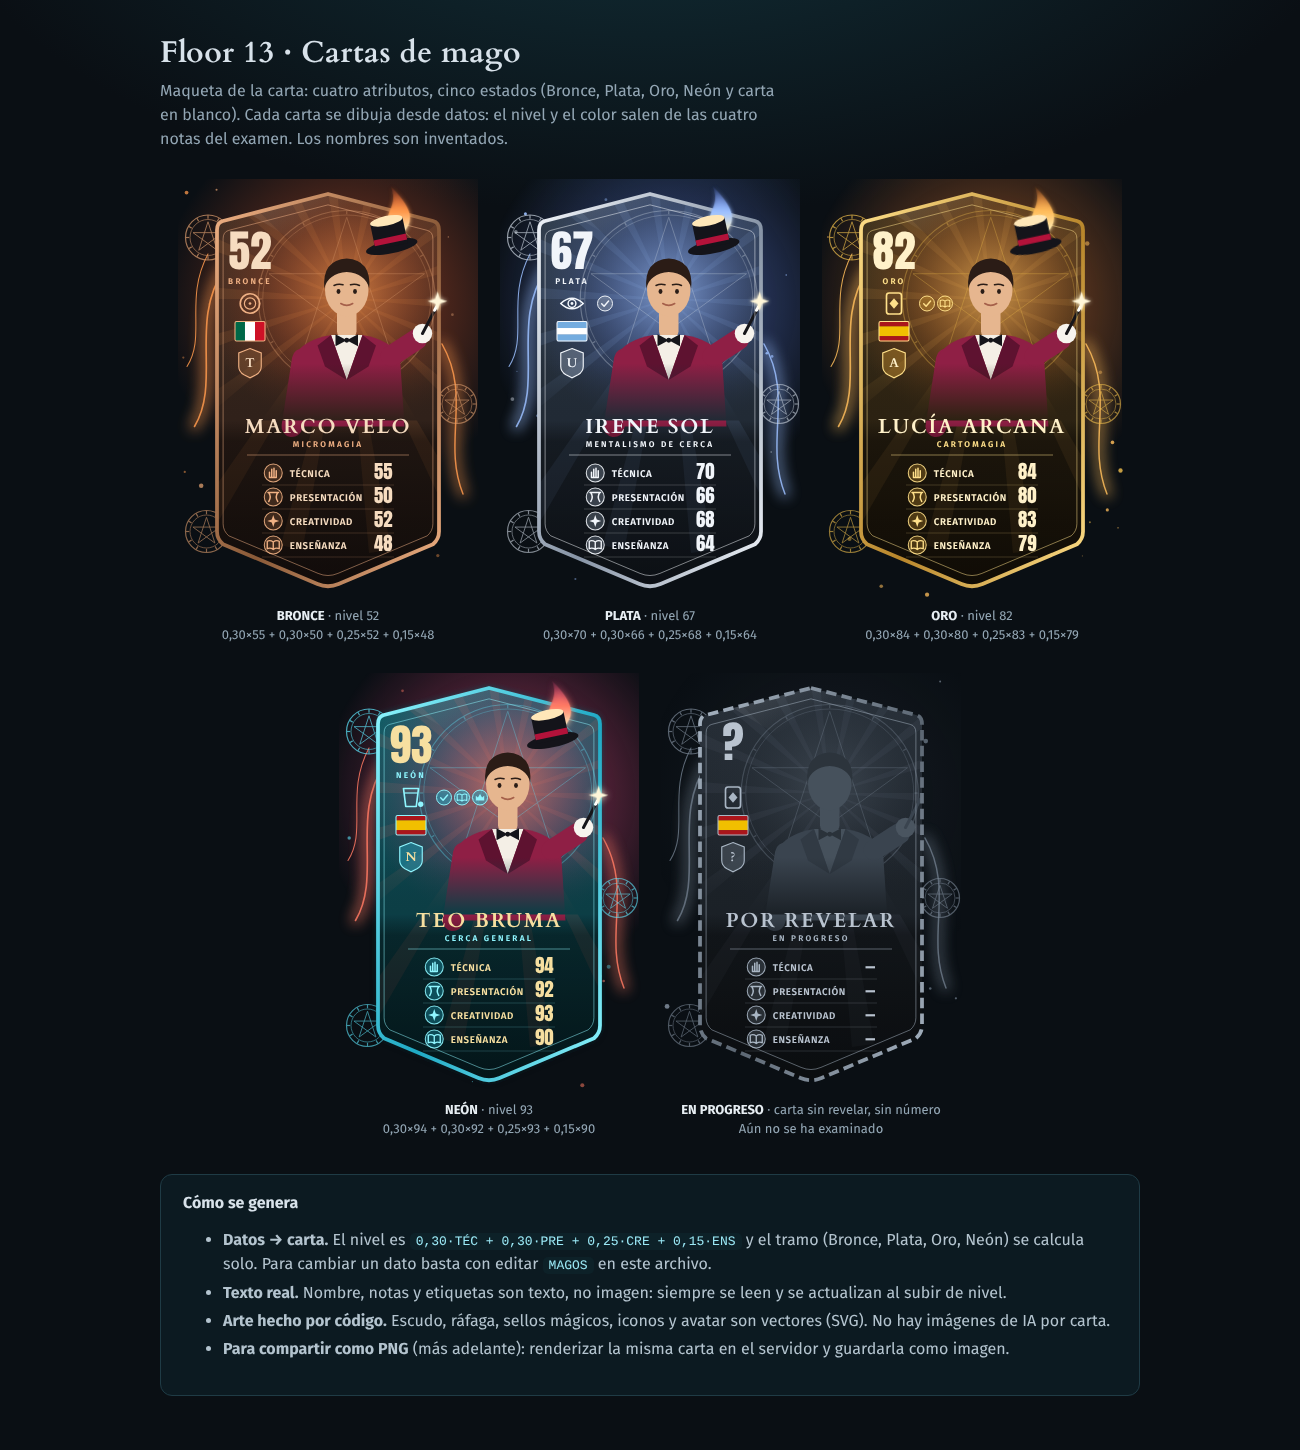
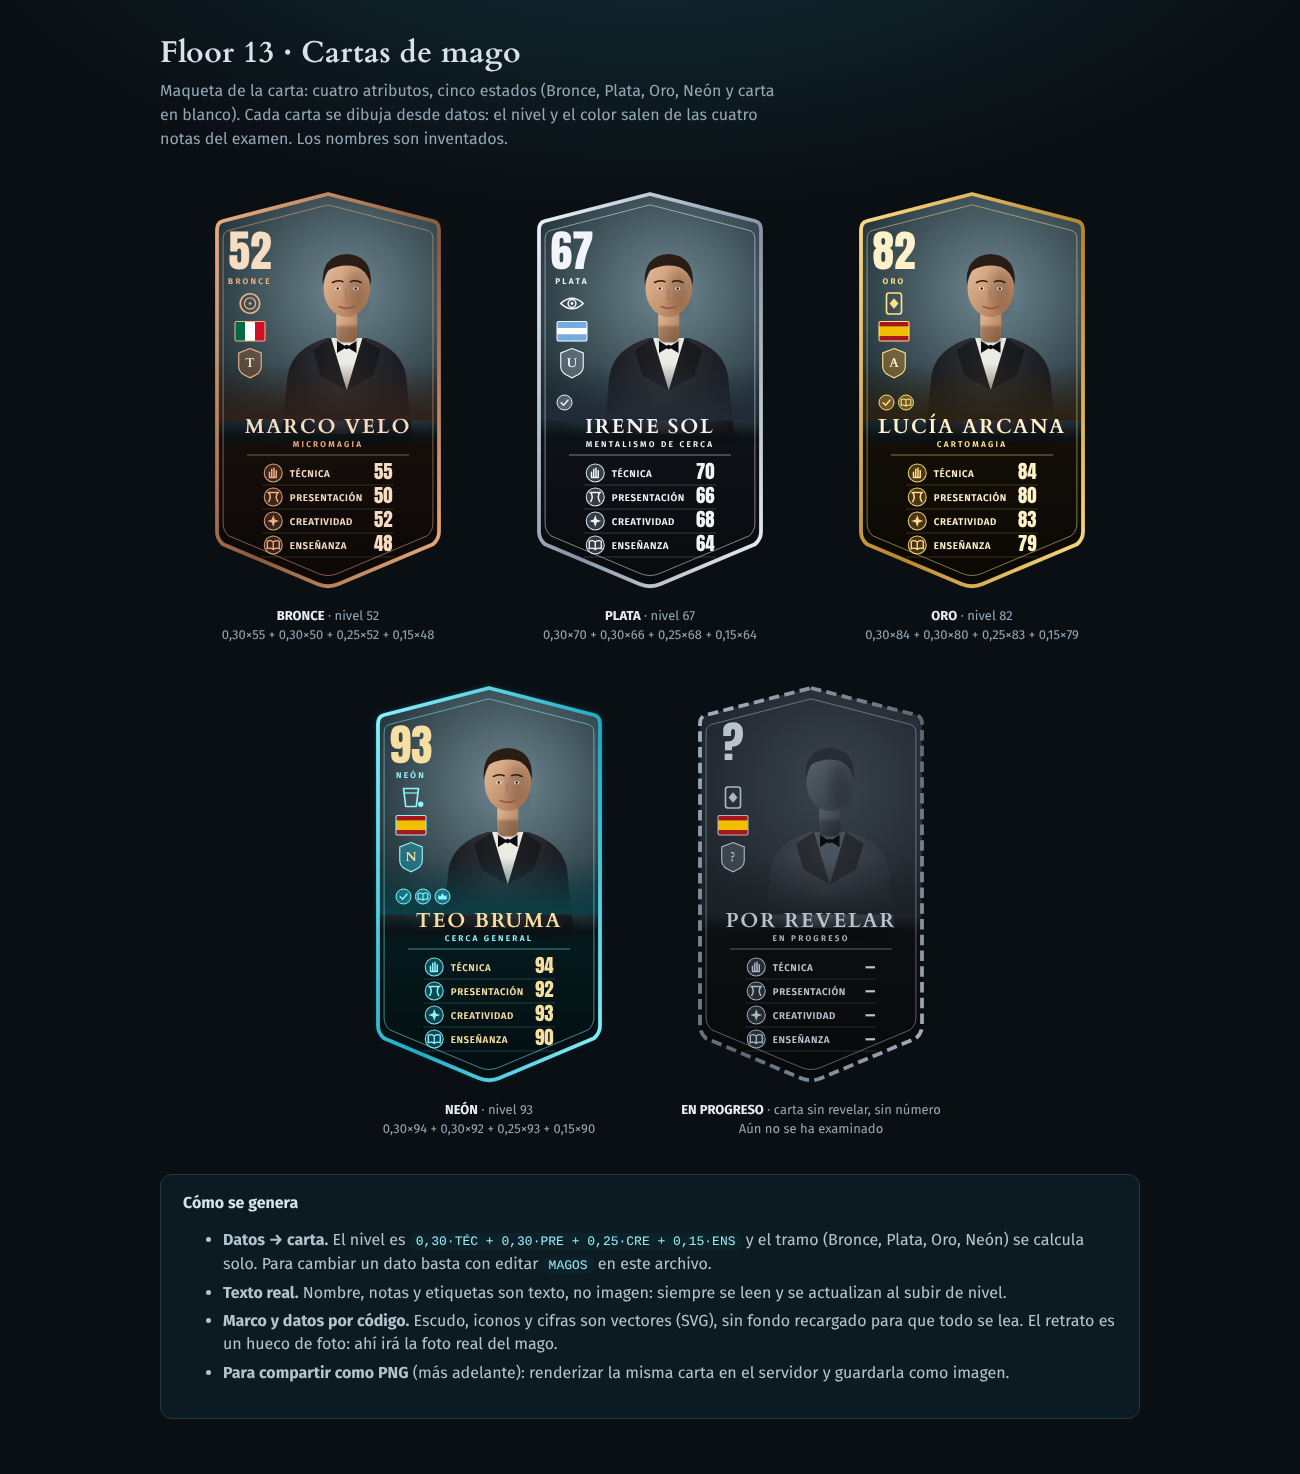
Cartas: sin fondo recargado y retrato con hueco de foto realista
Claude-Session: https://claude.ai/code/session_01KdBqoG4UYATbKNNbMoD1Gs

diff --git a/docs/diseno/carta/index.html b/docs/diseno/carta/index.html
@@ -39,7 +39,7 @@
   <ul>
     <li><b>Datos → carta.</b> El nivel es <code>0,30·TÉC + 0,30·PRE + 0,25·CRE + 0,15·ENS</code> y el tramo (Bronce, Plata, Oro, Neón) se calcula solo. Para cambiar un dato basta con editar <code>MAGOS</code> en este archivo.</li>
     <li><b>Texto real.</b> Nombre, notas y etiquetas son texto, no imagen: siempre se leen y se actualizan al subir de nivel.</li>
-    <li><b>Arte hecho por código.</b> Escudo, ráfaga, sellos mágicos, iconos y avatar son vectores (SVG). No hay imágenes de IA por carta.</li>
+    <li><b>Marco y datos por código.</b> Escudo, iconos y cifras son vectores (SVG), sin fondo recargado para que todo se lea. El retrato es un hueco de foto: ahí irá la foto real del mago.</li>
     <li><b>Para compartir como PNG</b> (más adelante): renderizar la misma carta en el servidor y guardarla como imagen.</li>
   </ul>
 </section>
@@ -128,6 +128,39 @@ function avatar(blank) {
     ${blank ? '' : '<line x1="342" y1="175" x2="346" y2="168" stroke="#fff" stroke-width="4" stroke-linecap="round"/>'}`;
 }
 
+
+/* ---------- Hueco de foto: retrato con luz de estudio (aquí irá la foto real del mago) ---------- */
+function foto(blank, id) {
+  const c = blank
+    ? { bg1: '#3a434d', bg2: '#1a2026', skin1: '#59636e', skin2: '#2e353d', suit: '#2c333b', shirt: '#4a545f', hair: '#262d34' }
+    : { bg1: '#6f8791', bg2: '#17262c', skin1: '#e9bf9c', skin2: '#a9734f', suit: '#17191f', shirt: '#eceae4', hair: '#2a1d16' };
+  return `
+  <defs>
+    <radialGradient id="${id('pbg')}" cx="225" cy="150" r="230" gradientUnits="userSpaceOnUse"><stop offset="0" stop-color="${c.bg1}"/><stop offset="1" stop-color="${c.bg2}"/></radialGradient>
+    <linearGradient id="${id('skin')}" x1="0" y1="0" x2="1" y2="1"><stop offset="0" stop-color="${c.skin1}"/><stop offset="1" stop-color="${c.skin2}"/></linearGradient>
+    <linearGradient id="${id('suit')}" x1="0" y1="0" x2="1" y2="0"><stop offset="0" stop-color="${c.suit}"/><stop offset=".45" stop-color="${mix(c.suit, '#ffffff', .12)}"/><stop offset="1" stop-color="${c.suit}"/></linearGradient>
+    <filter id="${id('soft')}"><feGaussianBlur stdDeviation="1.6"/></filter>
+    <filter id="${id('soft2')}"><feGaussianBlur stdDeviation="7"/></filter>
+  </defs>
+  <rect x="40" y="10" width="320" height="340" fill="url(#${id('pbg')})"/>
+  <ellipse cx="225" cy="340" rx="95" ry="14" fill="#000" opacity=".35" filter="url(#${id('soft2')})"/>
+  <path d="M138,340 L146,262 Q152,226 198,212 L252,212 Q298,226 304,262 L312,340 Z" fill="url(#${id('suit')})"/>
+  <path d="M204,212 L225,282 L246,212 Z" fill="${c.shirt}"/>
+  <path d="M204,212 L225,282 L190,262 L180,228 Z M246,212 L225,282 L260,262 L270,228 Z" fill="#000" opacity=".35"/>
+  <path d="M225,224 L212,216 L212,232 Z M225,224 L238,216 L238,232 Z" fill="#0c0c10"/><circle cx="225" cy="224" r="3" fill="#0c0c10"/>
+  <rect x="211" y="172" width="28" height="46" rx="10" fill="url(#${id('skin')})"/>
+  <rect x="211" y="196" width="28" height="22" fill="#000" opacity=".22" filter="url(#${id('soft')})"/>
+  <ellipse cx="225" cy="146" rx="31" ry="38" fill="url(#${id('skin')})"/>
+  <path d="M193,142 Q190,102 225,100 Q260,102 257,142 Q253,122 238,117 Q218,112 200,122 Q195,130 193,142Z" fill="${c.hair}"/>
+  <ellipse cx="238" cy="150" rx="14" ry="30" fill="#000" opacity=".18" filter="url(#${id('soft2')})"/>
+  ${blank ? '' : `
+  <ellipse cx="213" cy="146" rx="3.4" ry="2.2" fill="#fff" opacity=".9"/><circle cx="213" cy="146" r="1.8" fill="#2b1d14"/>
+  <ellipse cx="237" cy="146" rx="3.4" ry="2.2" fill="#fff" opacity=".9"/><circle cx="237" cy="146" r="1.8" fill="#2b1d14"/>
+  <path d="M206,138 Q213,134 220,137 M230,137 Q237,134 244,138" fill="none" stroke="#2a1d16" stroke-width="2" stroke-linecap="round"/>
+  <path d="M225,148 Q222,158 226,160" fill="none" stroke="#a5694a" stroke-width="1.6" stroke-linecap="round" opacity=".7"/>
+  <path d="M215,170 Q225,175 235,170" fill="none" stroke="#9a5646" stroke-width="2.2" stroke-linecap="round"/>`}`;
+}
+
 /* ---------- Carta ---------- */
 function carta(m, i) {
   const blank = !m.stats;
@@ -179,7 +212,7 @@ function carta(m, i) {
   }).join('');
 
   const sellos = m.sellos.slice(0, 3).map((s, n) => `
-      <g transform="translate(${140 + n * 24} 166)">
+      <g transform="translate(${86 + n * 26} 298)">
         <circle r="10" fill="${t.frameB}" opacity=".5"/><circle r="10" fill="none" stroke="${t.frameA}" stroke-width="1.3"/>
         <g color="${t.frameA}" transform="scale(.8)">${GLIFOS[s]}</g>
       </g>`).join('');
@@ -215,7 +248,7 @@ function carta(m, i) {
     <radialGradient id="${id('burst')}" cx="225" cy="165" r="250" gradientUnits="userSpaceOnUse"><stop offset="0" stop-color="${t.glow}" stop-opacity=".9"/><stop offset=".45" stop-color="${t.glow2}" stop-opacity=".35"/><stop offset="1" stop-color="${t.glow2}" stop-opacity="0"/></radialGradient>
     <radialGradient id="${id('halo')}" cx="225" cy="150" r="190" gradientUnits="userSpaceOnUse"><stop offset="0" stop-color="${t.glow}" stop-opacity=".75"/><stop offset=".6" stop-color="${t.glow2}" stop-opacity=".22"/><stop offset="1" stop-color="${t.glow2}" stop-opacity="0"/></radialGradient>
     <linearGradient id="${id('fade')}" x1="0" y1="0" x2="0" y2="1"><stop offset="0" stop-color="${fade}" stop-opacity="0"/><stop offset="1" stop-color="${fade}" stop-opacity="1"/></linearGradient>
-    <linearGradient id="${id('panel')}" x1="0" y1="0" x2="0" y2="1"><stop offset="0" stop-color="#000" stop-opacity="0"/><stop offset=".12" stop-color="#000" stop-opacity=".34"/><stop offset="1" stop-color="#000" stop-opacity=".42"/></linearGradient>
+    <linearGradient id="${id('panel')}" x1="0" y1="0" x2="0" y2="1"><stop offset="0" stop-color="#000" stop-opacity="0"/><stop offset=".1" stop-color="#000" stop-opacity=".55"/><stop offset="1" stop-color="#000" stop-opacity=".62"/></linearGradient>
     <linearGradient id="${id('flame')}" x1="0" y1="1" x2="0" y2="0"><stop offset="0" stop-color="#fff2c2"/><stop offset=".45" stop-color="${t.glow}"/><stop offset="1" stop-color="${t.glow2}" stop-opacity=".1"/></linearGradient>
     <linearGradient id="${id('sheen')}" x1="0" y1="0" x2="1" y2="1"><stop offset="0" stop-color="#fff" stop-opacity=".16"/><stop offset=".35" stop-color="#fff" stop-opacity="0"/></linearGradient>
     <clipPath id="${id('clip')}"><path d="${SHIELD}"/></clipPath>
@@ -223,44 +256,16 @@ function carta(m, i) {
     <filter id="${id('glow')}" x="-40%" y="-40%" width="180%" height="180%"><feGaussianBlur stdDeviation="${neon ? 5 : 3}" result="b"/><feMerge><feMergeNode in="b"/><feMergeNode in="SourceGraphic"/></feMerge></filter>
   </defs>
 
-  <!-- Escenario: ráfaga, cintas de energía, sellos y partículas fuera del escudo -->
-  <rect width="400" height="560" fill="url(#${id('burst')})" opacity="${blank ? .35 : 1}"/>
-  <g fill="none" stroke="${t.glow}" stroke-linecap="round" filter="url(#${id('blur')})" opacity=".75">
-    <path d="M22,330 C58,270 14,190 62,120" stroke-width="10"/><path d="M380,420 C352,350 392,290 352,220" stroke-width="9"/>
-  </g>
-  <g fill="none" stroke="${t.glow}" stroke-linecap="round" opacity=".85">
-    <path d="M22,330 C58,270 14,190 62,120" stroke-width="2.2"/><path d="M380,420 C352,350 392,290 352,220" stroke-width="2"/><path d="M12,250 C38,210 8,160 40,100" stroke-width="1.4"/>
-  </g>
-  ${sello(40, 78, 30, .7)}${sello(372, 300, 26, .6)}${sello(38, 470, 28, .6)}
-  ${particulas}
-
   <!-- Escudo -->
   <path d="${SHIELD}" fill="url(#${id('body')})" ${neon ? `filter="url(#${id('glow')})"` : ''}/>
   <g clip-path="url(#${id('clip')})">
     <path d="${SHIELD}" fill="url(#${id('body')})"/>
-    <rect x="40" y="10" width="320" height="330" fill="url(#${id('halo')})" opacity="${blank ? .5 : 1}"/>
-    ${rayos}
-    ${sello(225, 160, 118, .35)}
-    <g ${blank ? '' : ''}>${avatar(blank)}</g>
+    ${foto(blank, id)}
     <rect x="40" y="246" width="320" height="76" fill="url(#${id('fade')})"/>
     <rect x="40" y="322" width="320" height="230" fill="url(#${id('panel')})"/>
-    <path d="M52,20 L348,20 L348,200 Z" fill="url(#${id('sheen')})"/>
   </g>
   <path d="${SHIELD}" fill="none" stroke="url(#${id('frame')})" stroke-width="5" stroke-linejoin="round" ${blank ? 'stroke-dasharray="14 7"' : ''}/>
   <path d="${SHIELD}" transform="translate(200 283) scale(.945) translate(-200 -283)" fill="none" stroke="${t.frameA}" stroke-opacity=".5" stroke-width="1.4"/>
-
-  <!-- Elementos que rebasan el marco: sombrero flotante, llama y chispa de la varita -->
-  ${blank ? '' : `
-  <g filter="url(#${id('glow')})">
-    <path d="M285,56 C268,34 296,26 284,-4 C312,24 316,42 300,58Z" fill="url(#${id('flame')})" transform="translate(0 14)"/>
-    <path d="M346,150 l3,10 l10,3 l-10,3 l-3,10 l-3,-10 l-10,-3 l10,-3Z" fill="#fff6d8"/>
-  </g>
-  <g transform="translate(285 90) rotate(-12)">
-    <ellipse cx="0" cy="0" rx="35" ry="9" fill="#14141a"/>
-    <rect x="-22" y="-35" width="44" height="35" fill="#14141a"/>
-    <rect x="-22" y="-13" width="44" height="8" fill="#b3123a"/>
-    <ellipse cx="0" cy="-35" rx="22" ry="6.5" fill="#ffe7b8"/>
-  </g>`}
 
   <!-- Columna izquierda -->
   <text x="96" y="${blank ? 116 : 120}" class="big" text-anchor="middle" fill="${t.text}">${blank ? '?' : ovr}</text>
